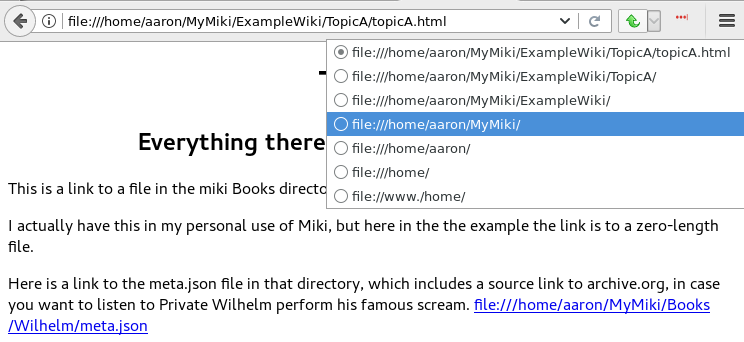
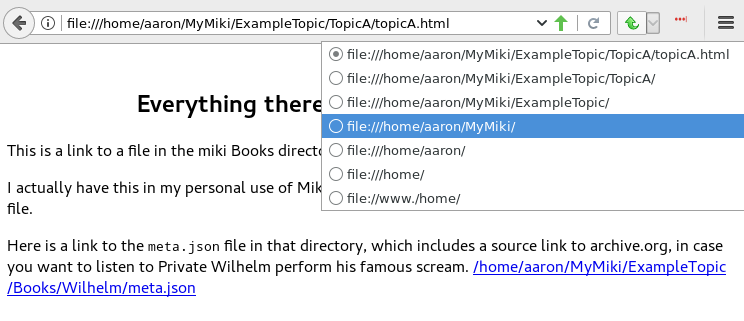
Update README.rst for ExampleTopic reorg.
In the previous commit, ExampleWiki was changed to ExampleTopic,
with links updated accordingly.
This update to README.rst reflects that change,
and emphasizes the nature of ExampleTopic as a topic,
not a complete demo wiki.

uppity.png was re-shot, to show the new ExampleTopic name.

Minor change to makefile, to silence "mwk clean".

Changed region(s): [[0.0, 0.0, 1.0, 0.9969]]

diff --git a/README.rst b/README.rst
@@ -17,9 +17,9 @@ Minimal makefile-based personal wiki
 * Run ``make`` to output html, and/or pdf, and/or plain text.
 
   * Also generates a sitemap for the whole wiki.
+  * Optionally catalogs any book/media files in your wiki.
 
 * Read your wiki pages.
-* Optionally catalogs any book/media files in your wiki.
 
 No software provided, just a ``makefile`` and two convenience scripts.
 
@@ -101,16 +101,17 @@ Prerequisites
 * Markdown-specific.
 
   * pandoc, for markdown to html generation.
-  * texlive-latex-base, for md to pdf generation
-  * texlive-latex-extra
-  * lmodern
+  * tex, for md to pdf generation.
 
     * The names of packages on your system may differ.
+    * texlive-latex-base.
+    * texlive-latex-extra.
+    * lmodern.
 
 Installation
 ------------
 
-* Recommended: git clone this repo, or download its zip and extract.
+* Recommended: ``git clone`` this repo, or download its zip and extract.
 * Or, very minimally, download these files:
 
   * ``makefile``
@@ -154,28 +155,20 @@ Installation
   $ cd ~/bin
   $ chmod ug+x mwk newmeta # Make them executable.
 
-* Copy the ``makefile``, and two starter files, to your wiki.
+* Copy ``ExampleTopic``, the ``makefile``,
+  and two starter files, to your wiki.
 
 ::
 
   $ cd /place/where/you/downloaded/or/cloned/the/files
-  $ cp makefile mdStarter.md rstStarter.rst $MWK/.
+  $ cp -r ExampleTopic makefile mdStarter.md rstStarter.rst $MWK/.
 
-* Optional, but recommended: Copy the ``ExampleWiki`` to your wiki,
-  for something to start with.
+* NOTE: ExampleTopic is for demo/test.
 
-  * NOTE: ExampleWiki is for demo/test.
-    I recommend that you do not add any of your own files there,
-    and you might want to delete the ExampleWiki directory
-    when you don't need it anymore.
-    Put your own topic directories directly under $MWK.
-    In other words, ExampleWiki is a topic directory that you'll
-    eventually want to get rid of.
-
-::
-
-  $ cd /place/where/you/cloned/or/unzipped/the/repo
-  $ cp -r ExampleWiki $MWK/.
+  * I recommend that you do not add any of your own files under that topic.
+  * Start your own topic directories directly under ``$MWK``.
+  * You can leave ExampleTopic in your wiki,
+    or delete it when you don't need the example anymore.
 
 Check the Installation
 ----------------------
@@ -190,7 +183,7 @@ Check the Installation
   /home/aaron/bin/newmeta
 
   $ ls -1 $MWK
-  ExampleWiki
+  ExampleTopic
   makefile
   mdStarter.md
   rstStarter.rst
@@ -199,8 +192,8 @@ Check the Installation
   # placeholder files; I'm not distributing other peoples' files.
   #
   $ cd $MWK
-  $ tree ExampleWiki
-  ExampleWiki
+  $ tree ExampleTopic
+  ExampleTopic
   ├── Books
   │   ├── BeejsGuides
   │   │   ├── beej.us
@@ -284,8 +277,10 @@ is missing or older than its source rst or md file.
                     # Options like -B are passed through to make.
 
   $ mwk badlinks # Look for local links in local files that are invalid.
+                 # Very handy after moving topics around.
 
   $ mwk goodlinks # Look for local links in local files that are valid.
+                  # Not as useful as badlinks. I never use it.
 
 * Generate html files.
 
@@ -295,10 +290,10 @@ is missing or older than its source rst or md file.
   # even outside the wiki, and the files will be generated
   # in their proper places.
   #
-  # For the moment, we care about what happens in ExampleWiki,
+  # For the moment, we care about what happens in ExampleTopic,
   # so we'll go there.
   #
-  $ cd $MWK/ExampleWiki
+  $ cd $MWK/ExampleTopic
 
   $ mwk clean # Just to be sure we're both starting from zero.
   cleaned
@@ -311,6 +306,17 @@ is missing or older than its source rst or md file.
 
   $ mwk
   ... make output ..
+
+  $ ls -1 ..
+  catalog.json
+  ExampleTopic
+  makefile
+  mdStarter.html
+  mdStarter.md
+  rstStarter.html
+  rstStarter.rst
+  sitemap.html
+
 
   $ ls -1
   Books
@@ -332,11 +338,11 @@ is missing or older than its source rst or md file.
 
   $ find .. -name "*.html" -o -name "catalog.json" |sort
   ../catalog.json
-  ../ExampleWiki/Books/BeejsGuides/beej.us/guide/bggdb/index.html
-  ../ExampleWiki/TopicA/topicA.html
-  ../ExampleWiki/TopicX/mdTopicX.html
-  ../ExampleWiki/TopicX/rstTopicX.html
-  ../ExampleWiki/UnnecessaryNavigationFile.html
+  ../ExampleTopic/Books/BeejsGuides/beej.us/guide/bggdb/index.html
+  ../ExampleTopic/TopicA/topicA.html
+  ../ExampleTopic/TopicX/mdTopicX.html
+  ../ExampleTopic/TopicX/rstTopicX.html
+  ../ExampleTopic/UnnecessaryNavigationFile.html
   ../mdStarter.html
   ../rstStarter.html
   ../sitemap.html
@@ -356,10 +362,14 @@ and click on files when you get there.
 Directory listings are always up to date,
 and you'll have to fix fewer broken links when you move things around.
 
+My suggestion:
+
 * In your browser, bookmark the top `directory` of your wiki,
+  whatever the value of ``$MWK`` is,
   rather than a page in the top directory.
 
-* Create a directory for each topic, and subdirectories for subtopics.
+* In ``$MWK``, create a directory for each topic,
+  and subdirectories for subtopics.
 
   * Create whatever rst or md source files you need
     in your topic directories.
@@ -369,12 +379,14 @@ and you'll have to fix fewer broken links when you move things around.
     * In my opinion, "the top of my main wiki"
       is not relevant to your topic.
     * But a link to another page within the topic may be useful.
+  * Copy in any external files that you need:
+    html, pdf, media files, images, etc.
 
 * Click down through the topic directories and pages as needed.
 
 ``mwk`` generates a sitemap,
 at ``$MWK/sitemap.html``.
-All files in the wiki are listed and clickable.
+All files and directories in the wiki are listed and clickable.
 
 For moving up and down from where you happen to be,
 here's where the Firefox Uppity addon,
@@ -384,9 +396,9 @@ Drill down to a page somewhere down in your wiki.
 Now decide to go to the top of the wiki
 (or anywhere in between, if you like).
 
-I'll go to a page in ``TopicA``.
+I'll go to a page in ``ExampleTopic/TopicA``.
 There's no purely navigational link on the page,
-and specifically no link to the top.
+and specifically no link to the top of the wiki.
 
 You could repeatedly click the back button,
 and depending on the route you took to get to this file,
@@ -422,19 +434,19 @@ when linking to html files that are generated from rst or md files,
 
 ::
 
-  ``file:///home/aaron/MyMiki/ExampleWiki/TopicA/topicA.html``
+  ``file:///home/aaron/MyMiki/ExampleTopic/TopicA/topicA.html``
 
 should instead be written as
 
 ::
 
-  ``$MWK/ExampleWiki/TopicA/topicA.rst``.
+  ``$MWK/ExampleTopic/TopicA/topicA.rst``.
 
 or
 
 ::
 
-  ``$MWK/ExampleWiki/TopicA/topicA.md``.
+  ``$MWK/ExampleTopic/TopicA/topicA.md``.
 
 depending on whether the generated html file
 is based on an rst or md source file.
@@ -462,17 +474,17 @@ and will happily open the rst or md file.
   # Link to one of your rst source files.
   # This will be turned into an html link in the generated html file.
   #
-  `Topic A <$MWK/ExampleWiki/TopicA/topicA.rst>`__
+  `Topic A <$MWK/ExampleTopic/TopicA/topicA.rst>`__
   (that's two underscores at the end)
 
   # Link to a pdf file that you've copied in.
   #
-  `Some pdf <$MWK/ExampleWiki/TopicA/somePdf.pdf>`__
+  `Some pdf <$MWK/ExampleTopic/TopicA/somePdf.pdf>`__
 
   # Link to an html file that you've copied in.
   #
   `html file that you copied in, not based on an rst file
-  <$MWK/ExampleWiki/TopicA/copiedExternal.html>`__
+  <$MWK/ExampleTopic/TopicA/copiedExternal.html>`__
 
   `External web page <https://en.wikipedia.org/wiki/Main_Page>`__
 
@@ -481,7 +493,7 @@ and will happily open the rst or md file.
 
 ::
 
-  `Topic M <$MWK/ExampleWiki/TopicM/topicM.md>`__
+  `Topic M <$MWK/ExampleTopic/TopicM/topicM.md>`__
   (We're in an rst file, so we write rst style links.)
 
 * In your md files,
@@ -492,15 +504,15 @@ and will happily open the rst or md file.
   # Link to one of your md source files.
   # This will be turned into an html link in the generated html file.
   #
-  [Topic Z]($MWK/ExampleWiki/TopicZ/topicZ.md>)
+  [Topic Z]($MWK/ExampleTopic/TopicZ/topicZ.md>)
 
   # Link to a pdf file that you've copied in.
   #
-  [Some pdf]($MWK/ExampleWiki/TopicZ/topicZ.pdf>)
+  [Some pdf]($MWK/ExampleTopic/TopicZ/topicZ.pdf>)
 
   # Link to an html file that you've copied in.
   #
-  [html file that you copied in, not based on an md file]($MWK/ExampleWiki/TopicZ/copiedExternal.html>)
+  [html file that you copied in, not based on an md file]($MWK/ExampleTopic/TopicZ/copiedExternal.html>)
 
   [External web page](https://en.wikipedia.org/wiki/Main_Page)
 
@@ -508,7 +520,7 @@ and will happily open the rst or md file.
 
 ::
 
-  [Topic T]($MWK/ExampleWiki/TopicT/topicT.rst>)
+  [Topic T]($MWK/ExampleTopic/TopicT/topicT.rst>)
   (We're in an md file, so we write md style links.)
 
 Still not clear?
@@ -592,12 +604,15 @@ directory; scatter them throughout your wiki if you like.
 
 ::
 
-  $cd $MWK/ExampleWiki
+  $cd $MWK/ExampleTopic
   
-  $ tree -L 2 -F Books 
+  $ tree -F Books
   Books
   ├── BeejsGuides/
   │   ├── beej.us/
+  │   │   └── guide/
+  │   │       └── bggdb/
+  │   │           └── index.html
   │   ├── bgc_USLetter.pdf
   │   ├── bgipc_USLetter.pdf
   │   ├── bgnet_USLetter.pdf
@@ -612,7 +627,8 @@ directory; scatter them throughout your wiki if you like.
   │   └── ten-steps-to-linux-survival.pdf
   └── Wilhelm/
       ├── meta.json
-      └── WilhelmScream.mp3
+          └── WilhelmScream.mp3
+
 
 I don't use category directories, like, say, `Books/Science/`,
 with all science book directories under there;
@@ -640,10 +656,10 @@ Here's ``Wilhelm/meta.json``:
       "subtitle": "Audio sample",
       "categoryPrimary": "Civilization",
       "categorySecondary": "Audio",
-      "link": "$MWK/ExampleWiki/Books/Wilhelm/WilhelmScream.mp3",
+      "link": "$MWK/ExampleTopic/Books/Wilhelm/WilhelmScream.mp3",
       "source": "https://archive.org/details/WilhelmScreamSample",
       "note": "Creative Commons, Public Domain",
-      "meta": "$MWK/ExampleWiki/Books/Wilhelm/meta.json"
+      "meta": "$MWK/ExampleTopic/Books/Wilhelm/meta.json"
   }
 
 The only fields that ``mwk catalog`` cares about are:
@@ -673,27 +689,67 @@ Every field in a ``meta.json`` object is optional,
 and you can add new fields.
 The only requirement is that everything inside an object must be valid json.
 
-* Read the ``meta.json`` files included with ``ExampleWiki``
+* Read the ``meta.json`` files included with ``ExampleTopic``
   for ideas on how to document your resources.
 
 ::
 
-  $cd $MWK/ExampleWiki
+  $cd $MWK/ExampleTopic
   
-  $ tree -L 2 -F Books 
+  $ tree -F Books 
   Books
   ├── BeejsGuides/
   │   ├── beej.us/
+  │   │   └── guide/
+  │   │       └── bggdb/
+  │   │           └── index.html
   │   ├── bgc_USLetter.pdf
   │   ├── bgipc_USLetter.pdf
   │   ├── bgnet_USLetter.pdf
   │   └── meta.json
 
 There are four resources in ``BeejsGuides``,
-the three pdfs you see above,
-and an html file down in ``BeejsGuides/beej.us/``.
+the three pdfs and the html that you see above.
 They are all tracked in the single ``meta.json`` file,
 with four json objects.
+
+::
+
+  $ cat Books/BeejsGuides/meta.json
+  {
+      "title": "Beej's Quick Guide to GDB",
+      "categoryPrimary": "Software",
+      "categorySecondary": "C",
+      "link": "$MWK/ExampleTopic/Books/BeejsGuides/beej.us/guide/bggdb/index.html",
+      "source": "http://beej.us/guide/bggdb/",
+      "meta": "$MWK/ExampleTopic/Books/BeejsGuides/meta.json"
+  }
+  {
+      "title": "Beej's Guide to C Programming",
+      "subtitle": "Rough draft",
+      "categoryPrimary": "Software",
+      "categorySecondary": "C",
+      "link": "$MWK/ExampleTopic/Books/BeejsGuides/bgc_USLetter.pdf",
+      "source": "http://beej.us/guide/bgc/",
+      "meta": "$MWK/ExampleTopic/Books/BeejsGuides/meta.json"
+  }
+  {
+      "title": "Beej's Guide to Unix IPC",
+      "categoryPrimary": "Software",
+      "categorySecondary": "C",
+      "link": "$MWK/ExampleTopic/Books/BeejsGuides/bgipc_USLetter.pdf",
+      "source": "http://beej.us/guide/bgipc/",
+      "meta": "$MWK/ExampleTopic/Books/BeejsGuides/meta.json"
+  }
+  {
+      "title": "Beej's Guide to Network Programming",
+      "subtitle": "Using Internet Sockets",
+      "categoryPrimary": "Software",
+      "categorySecondary": "C",
+      "link": "$MWK/ExampleTopic/Books/BeejsGuides/bgnet_USLetter.pdf",
+      "source": "http://beej.us/guide/bgnet/",
+      "meta": "$MWK/ExampleTopic/Books/BeejsGuides/meta.json"
+  }
 
 Note that the four top-level json objects in ``meta.json``
 are `not` separated by commas.
